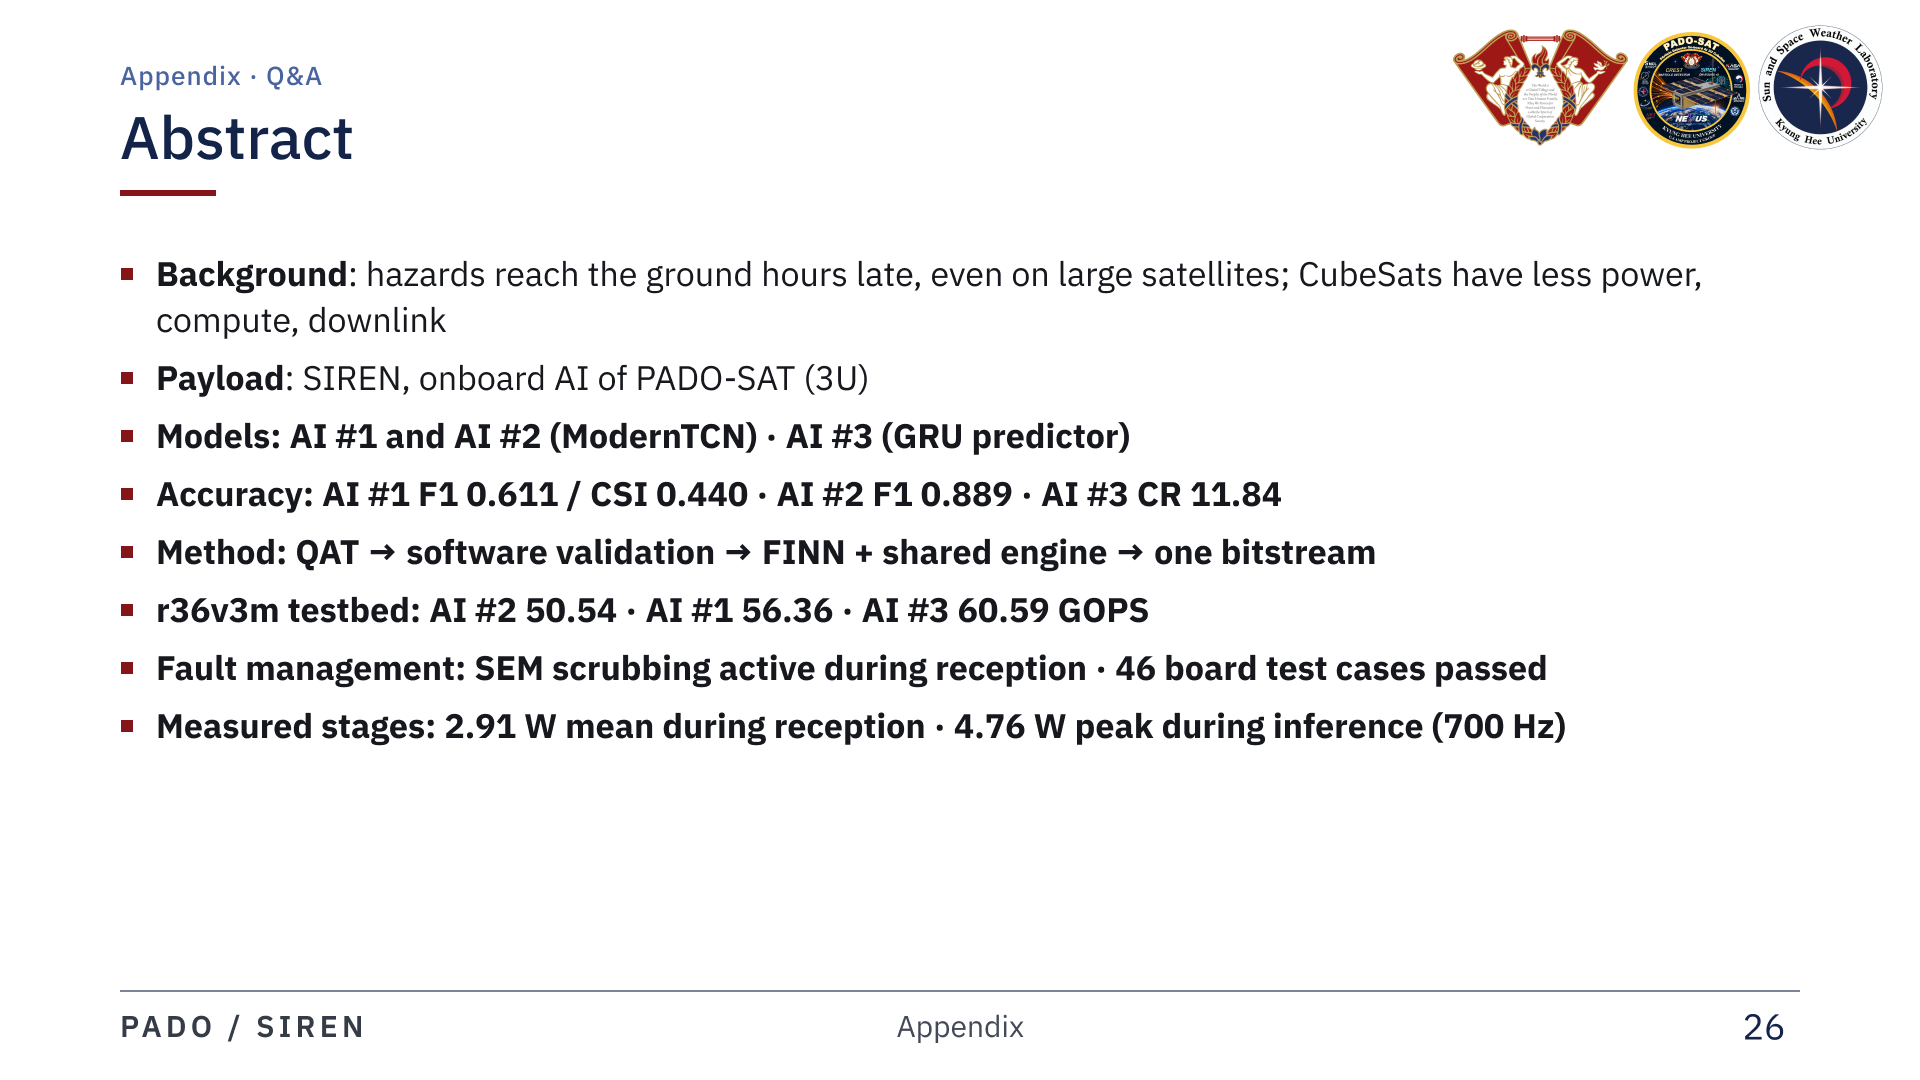
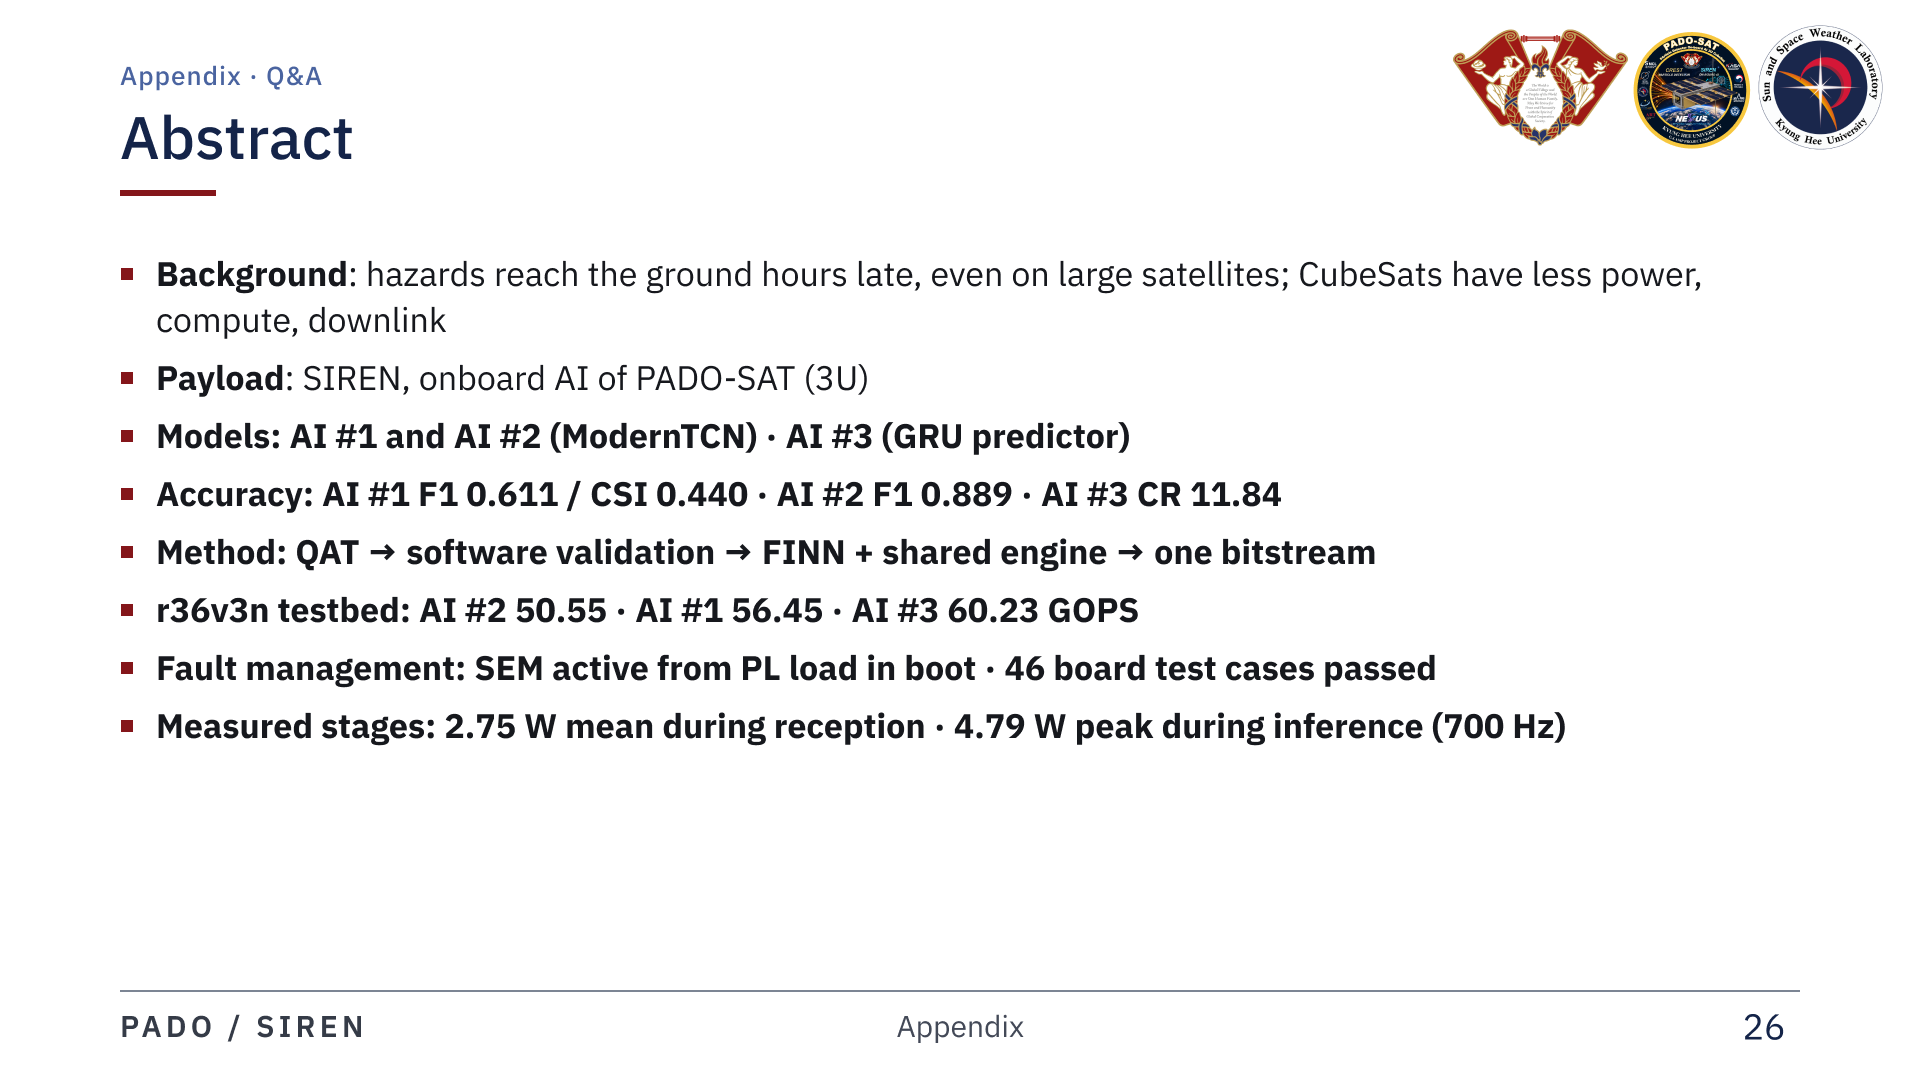
Update power plots for r36v3n

Changed region(s): [[0.2812, 0.6111, 0.8125, 0.6417], [0.125, 0.55, 0.5938, 0.5806], [0.25, 0.6722, 0.2812, 0.7028]]

diff --git a/README.md b/README.md
@@ -84,7 +84,7 @@ PADO-SAT의 온보드 AI 탑재체 SIREN 발표 자료입니다.
 
 ### 20. Implementation & Performance
 
-![Slide 20: Implementation & Performance](assets/slides/20.png?v=87ca4bf5568a)
+![Slide 20: Implementation & Performance](assets/slides/20.png?v=32aa7e9c98e1)
 
 ### 21. Future Work and Summary
 
@@ -96,7 +96,7 @@ PADO-SAT의 온보드 AI 탑재체 SIREN 발표 자료입니다.
 
 ### 23. Summary
 
-![Slide 23: Summary](assets/slides/23.png?v=4ca186679ec5)
+![Slide 23: Summary](assets/slides/23.png?v=aa6ac5a9ca03)
 
 ### 24. Thank you
 
@@ -110,7 +110,7 @@ PADO-SAT의 온보드 AI 탑재체 SIREN 발표 자료입니다.
 
 ### 26. Abstract
 
-![Slide 26: Abstract](assets/slides/26.png?v=f2d9ba45e3ca)
+![Slide 26: Abstract](assets/slides/26.png?v=353af89b632e)
 
 ### 27. Onboard AI in Previous Missions
 
